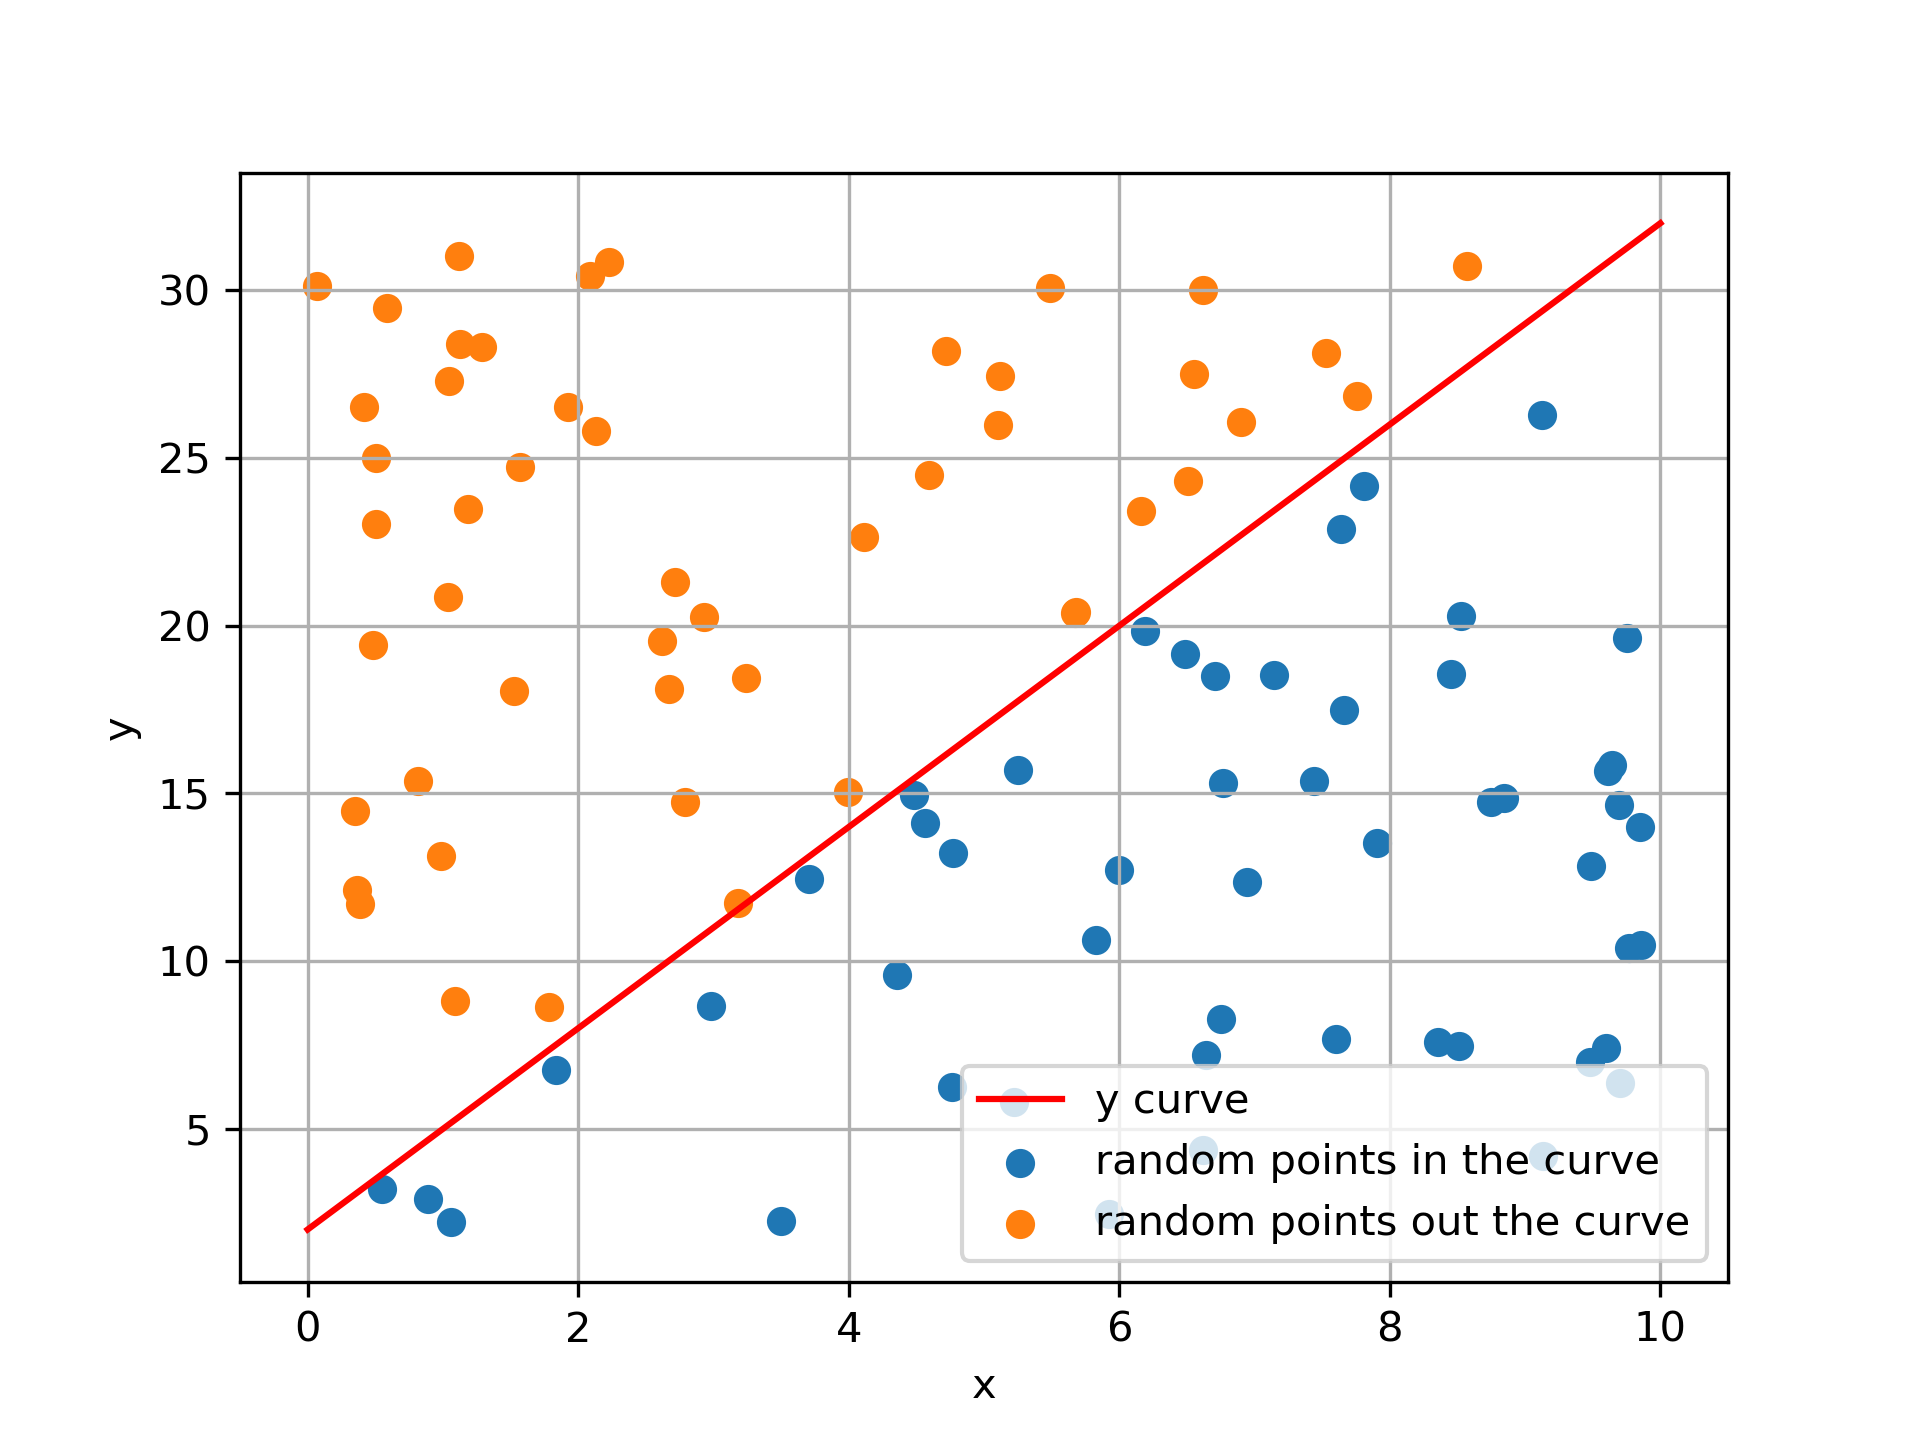
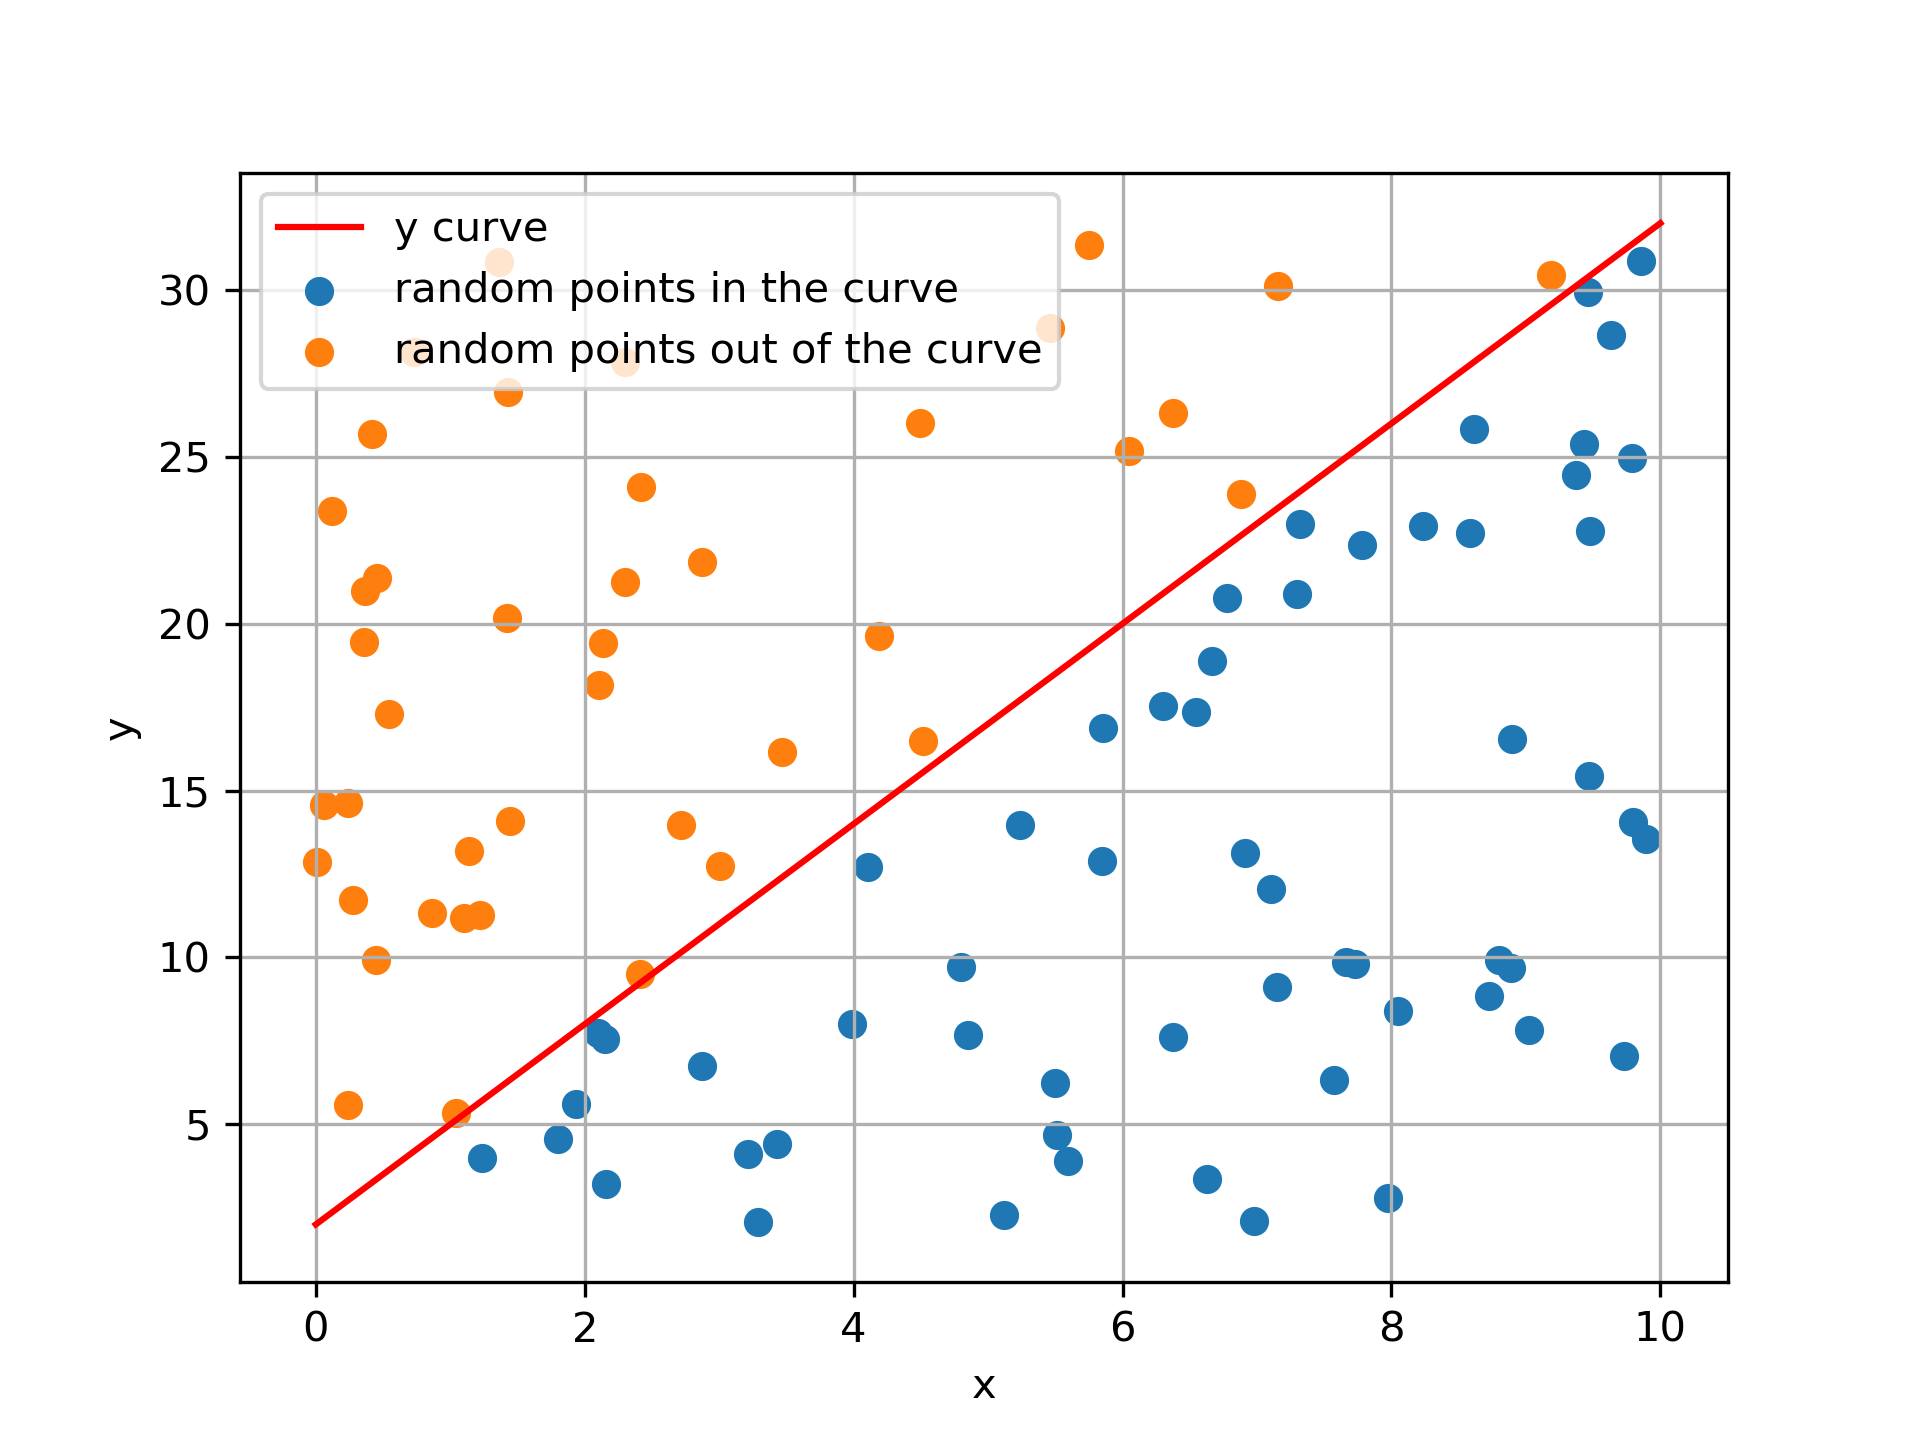
calculus diff

diff --git a/Differential_calculus/Differential_with_sympy.py b/Differential_calculus/Differential_with_sympy.py
@@ -1,0 +1,53 @@
+import os
+import matplotlib.pyplot as plt
+import numpy as np
+import sympy as sp
+from matplotlib import cm
+from matplotlib.ticker import LinearLocator, FormatStrFormatter
+from mpl_toolkits.mplot3d import axes3d, Axes3D
+
+
+if __name__ == '__main__':
+    x, y = sp.symbols("x, y")
+
+    G = 9 * x ** 2 + 3 * x + 1
+    g = sp.diff(G, x)
+    X = np.linspace(-10, 10, 1_000)
+    plt.plot(X, [G.evalf(subs={"x": i}) for i in X], label=f"G = {G}")
+    plt.plot(X, [g.evalf(subs={"x": i}) for i in X], label=f"g := G' = {g}")
+    plt.grid()
+    plt.legend()
+    plt.xlabel("x")
+    plt.ylabel("y")
+    plt.savefig(os.getcwd() + "/diff_exemple_G_and_g.png", dpi=300)
+    plt.show()
+
+    F = sp.cos(sp.sqrt(x**2 + y**2))
+    f_x = sp.diff(F, x)
+    f_y = sp.diff(F, y)
+
+    X = np.linspace(-5, 5, 1_000)
+    Y = np.linspace(-5, 5, 1_000)
+    X, Y = np.meshgrid(X, Y)
+    F_lambdify = sp.lambdify((x, y), F, modules="numpy")
+    f_x_lambdify = sp.lambdify((x,), f_x, modules="numpy")
+    f_y_lambdify = sp.lambdify((y,), f_y, modules="numpy")
+    Z = F_lambdify(X, Y)
+
+    fig = plt.figure()
+    ax = Axes3D(fig)
+    # Plot the surface.
+    surf = ax.plot_surface(X, Y, Z, cmap=cm.coolwarm,
+                           linewidth=0, antialiased=False)
+    # Customize the z axis.
+    ax.set_zlim(-1.01, 1.01)
+    ax.zaxis.set_major_locator(LinearLocator(10))
+    ax.zaxis.set_major_formatter(FormatStrFormatter('%.02f'))
+
+    # add gradient
+    ax.plot(X, f_x_lambdify(X))
+
+    # Add a color bar which maps values to colors.
+    fig.colorbar(surf, shrink=0.5, aspect=5)
+    plt.savefig(os.getcwd() + "/diff_exemple_F.png", dpi=300)
+    plt.show()

diff --git a/Matplotlib_introduction/parametric_curve.py b/Matplotlib_introduction/parametric_curve.py
@@ -1,0 +1,18 @@
+from mpl_toolkits.mplot3d import Axes3D
+import matplotlib as mpl
+from matplotlib import pyplot as plt
+import numpy as np
+
+
+if __name__ == '__main__':
+    mpl.rcParams['legend.fontsize'] = 10
+    fig = plt.figure()
+    ax = fig.gca(projection='3d')
+    theta = np.linspace(-4 * np.pi, 4 * np.pi, 100)
+    z = np.linspace(-2, 2, 100)
+    r = z ** 2 + 1
+    x = r * np.sin(theta)
+    y = r * np.cos(theta)
+    ax.plot(x, y, z, label='parametric curve')
+    ax.legend()
+    plt.show()

diff --git a/Integral_calculus/Exemple_of_mcint.py b/Integral_calculus/Exemple_of_mcint.py
@@ -38,7 +38,7 @@ if __name__ == '__main__':
 
     plt.plot(X, y(X), c="r", label="y curve")
     plt.scatter(np.array(in_ensemble)[:, 0], np.array(in_ensemble)[:, 1], label="random points in the curve")
-    plt.scatter(np.array(out_ensemble)[:, 0], np.array(out_ensemble)[:, 1], label="random points out the curve")
+    plt.scatter(np.array(out_ensemble)[:, 0], np.array(out_ensemble)[:, 1], label="random points out of the curve")
     plt.xlabel("x")
     plt.ylabel("y")
     plt.grid()
